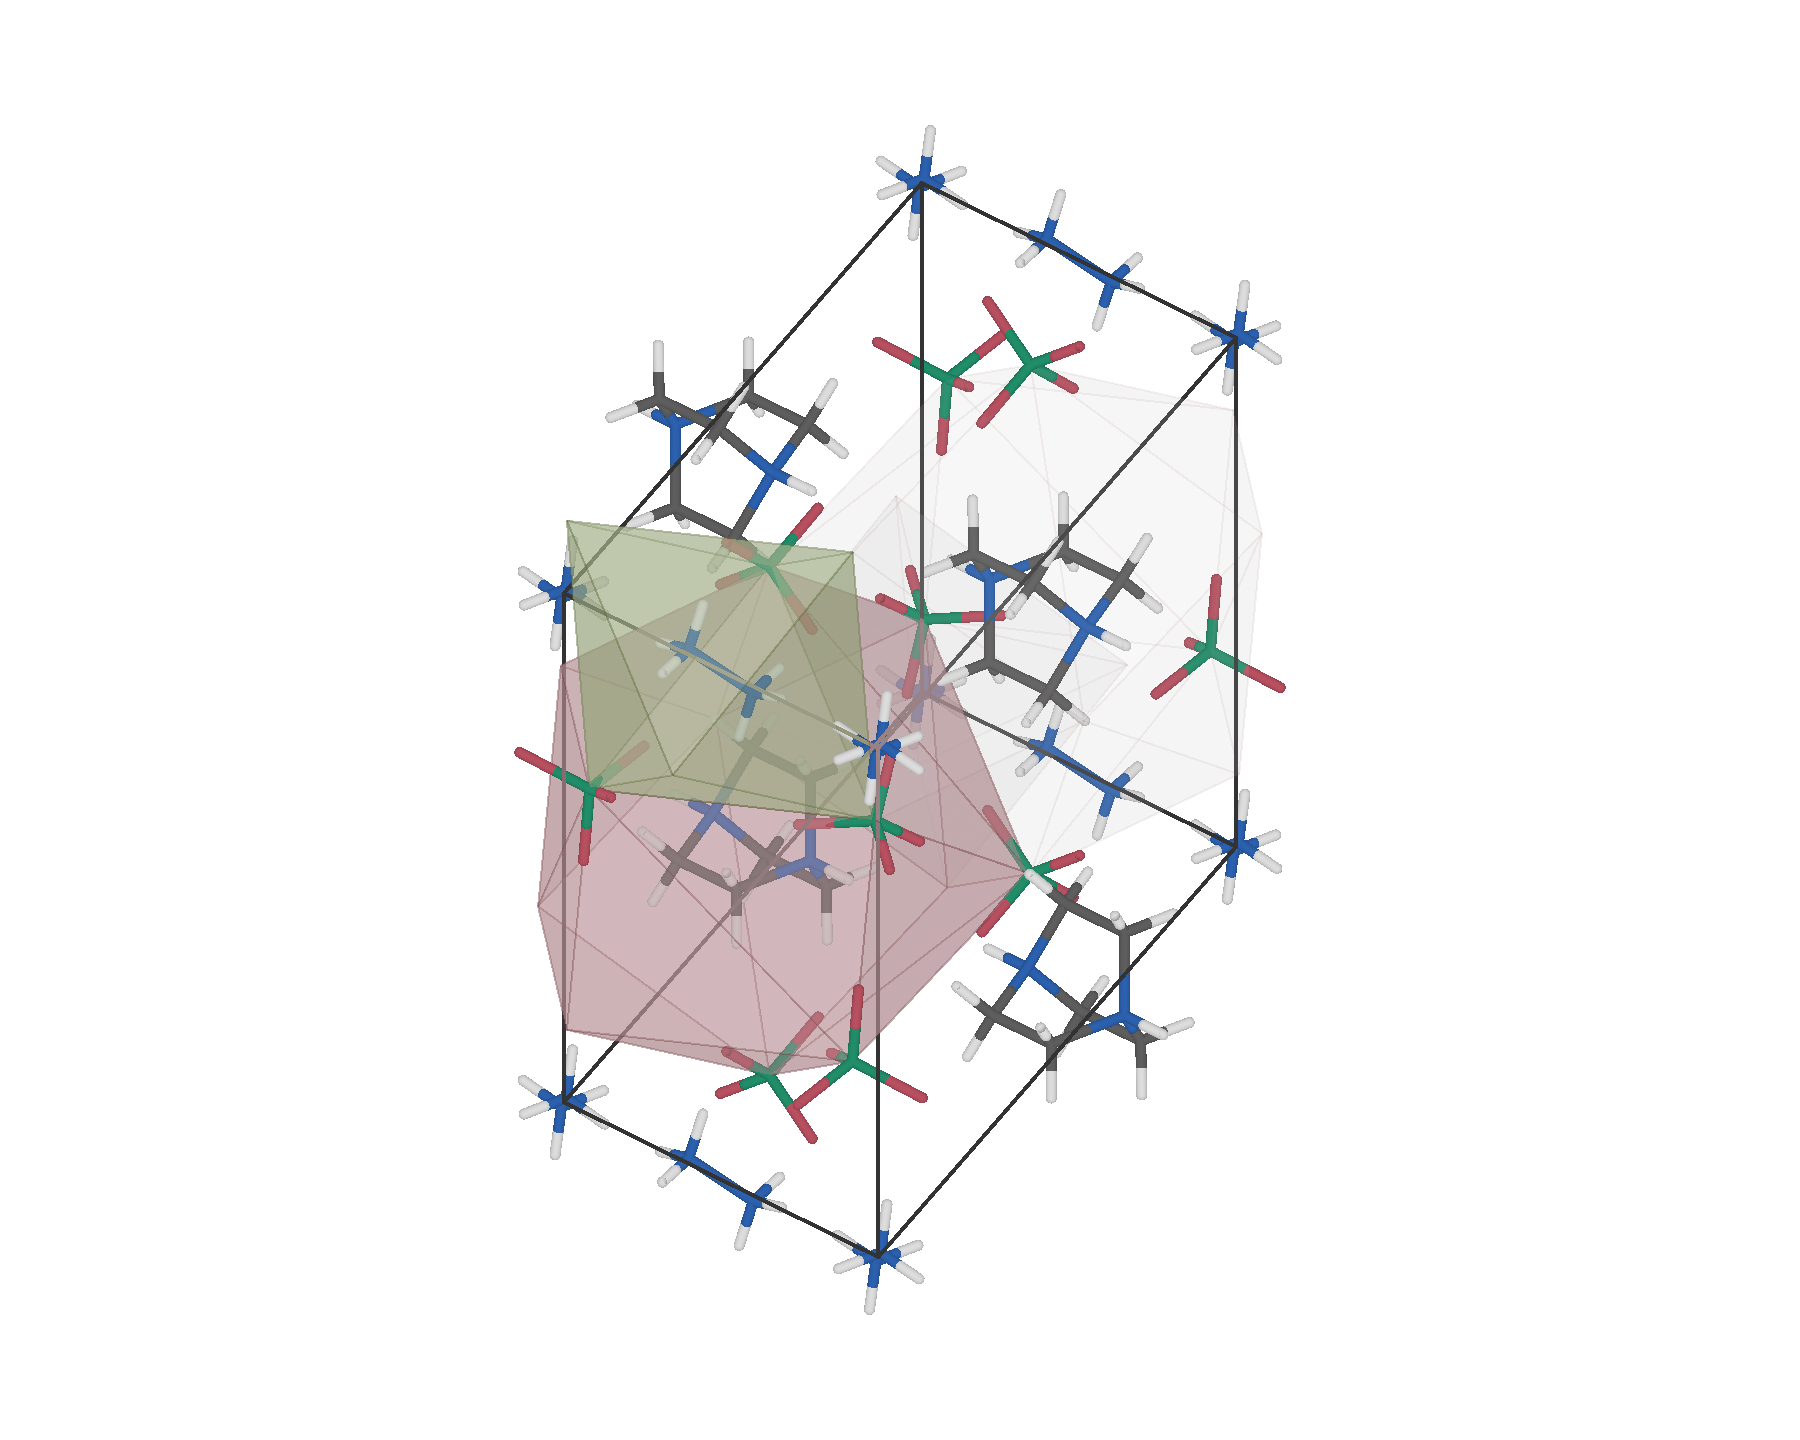
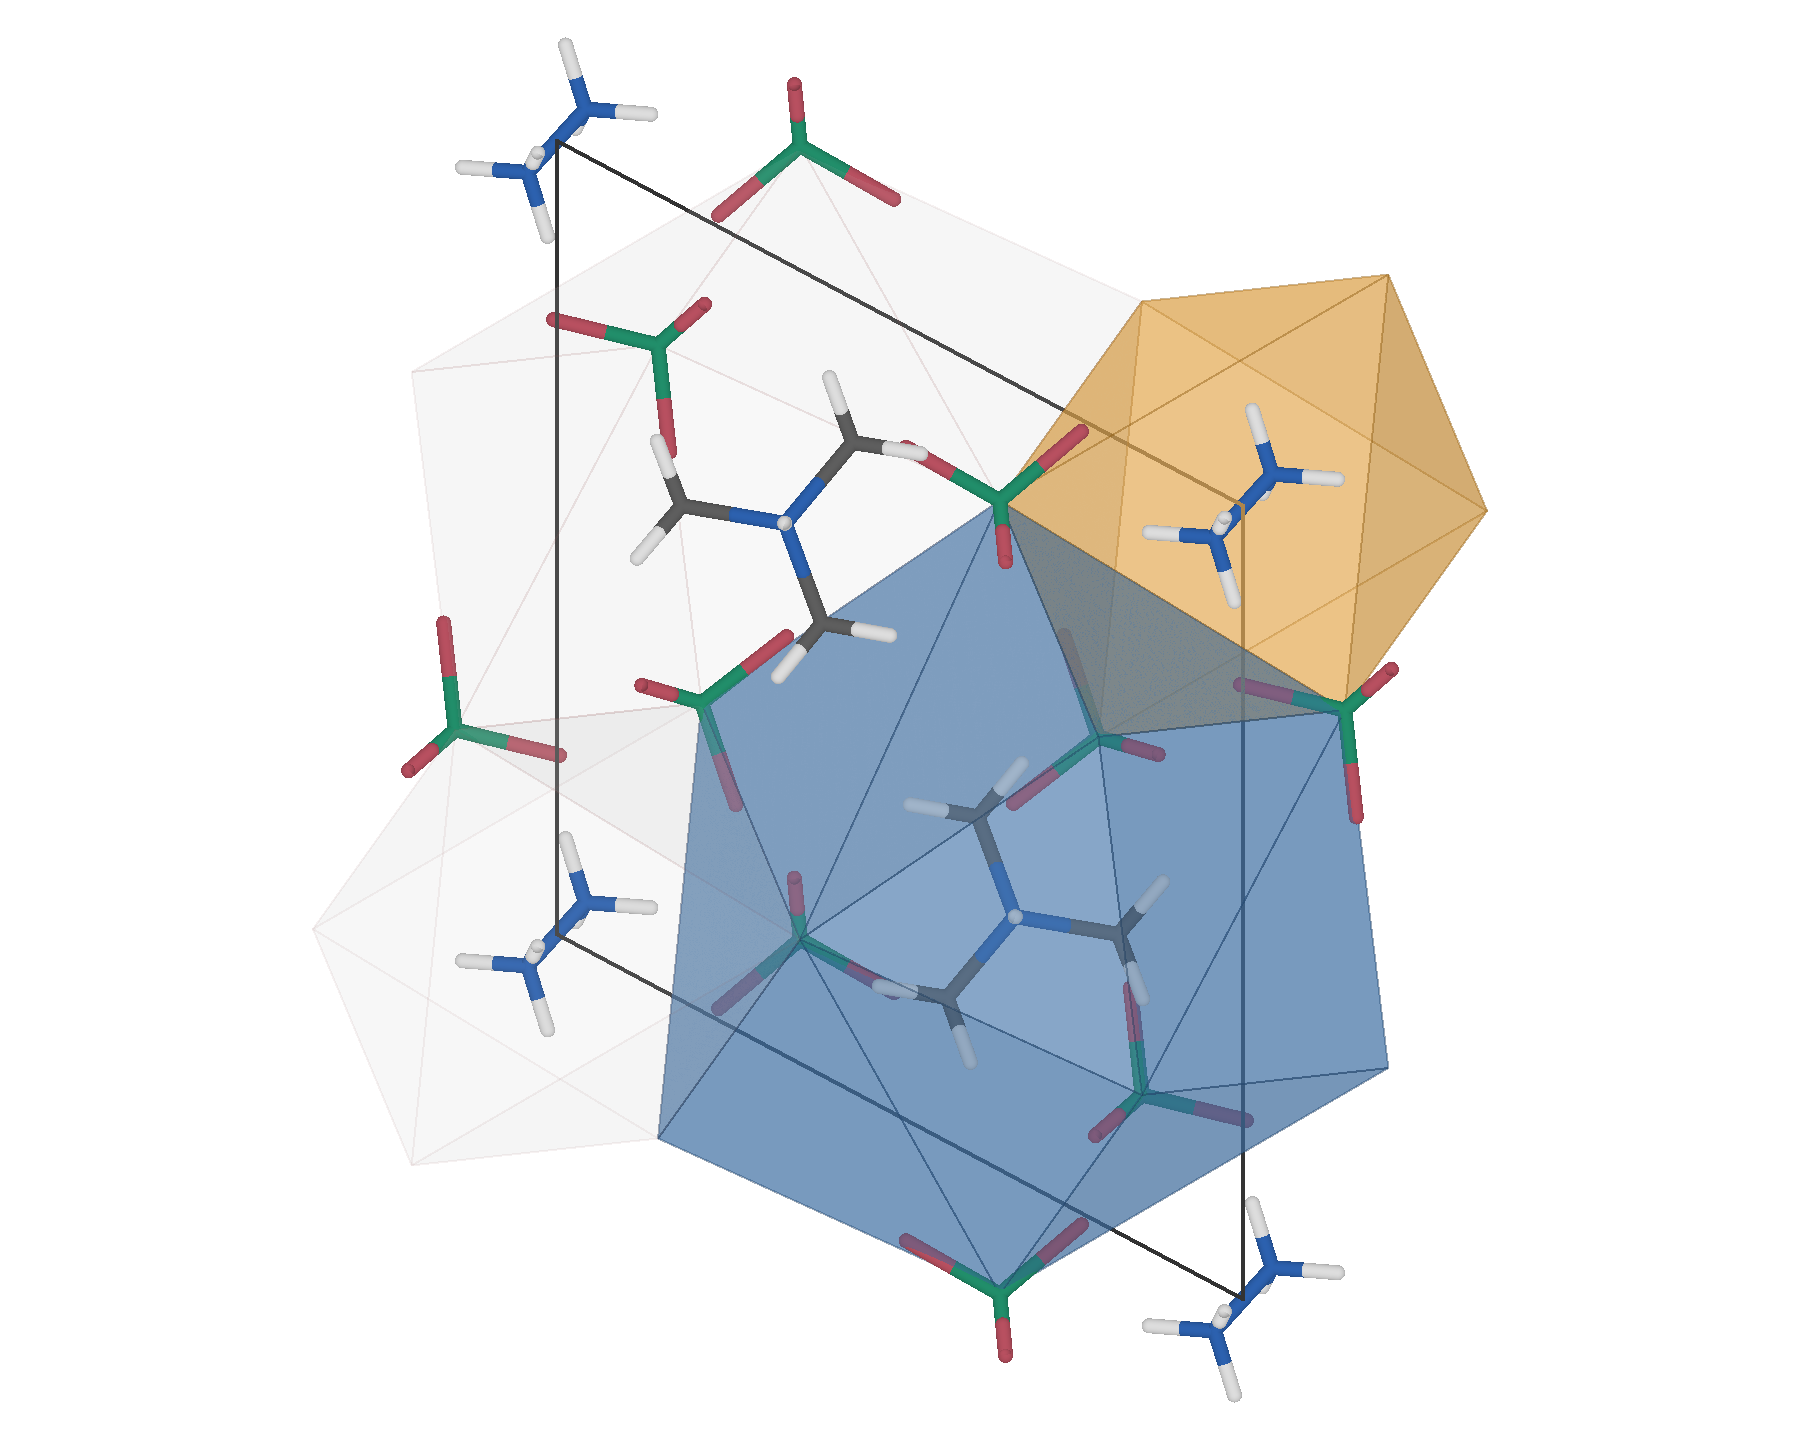
Face the polyhedron panel down the b axis and give the three panels equal width.
PETN now draws a thicker mock stretch plus a perpendicular arrow on each terminal oxygen, so the displacements stay visible beside the bonds.

Changed region(s): [[0.2178, 0.0625, 0.84, 0.9688], [0.2489, 0.0312, 0.3733, 0.1875]]

diff --git a/docs/images/render_panels.py b/docs/images/render_panels.py
@@ -13,7 +13,9 @@ import numpy as np
 from PIL import Image
 from scipy.spatial import ConvexHull
 
+from mat_viewer.agent import load_structure
 from mat_viewer.loader import build_bundle_scene, build_loaded_crystal
+from mat_viewer.render.contracts import CameraSpec
 from mat_viewer.render.cpu import render_rgba
 from mat_viewer.render.planning import prepare_render
 from mat_viewer.topology import extract_coordination_shell
@@ -21,10 +23,12 @@ from mat_viewer.topology import extract_coordination_shell
 ROOT = Path(__file__).resolve().parent
 DAP7 = ROOT / "showcase_dap7.cif"
 CAFFEINE = ROOT / "showcase_caffeine_pair.cif"
+PETN = ROOT / "showcase_petn_molecule.xyz"
+PETN_VECTORS = ROOT / "showcase_petn_vectors.json"
 
-A_HIGHLIGHT = "#B89095"
-B_HIGHLIGHT = "#A0AE83"
-HULL_BG = "#C7C7C7"
+A_HIGHLIGHT = "#3B6EA5"
+B_HIGHLIGHT = "#E09F3E"
+HULL_BG = "#C8C8C8"
 HL_OPACITY = 0.45
 BG_OPACITY = 0.08
 ATOM_SCALE = 0.55
@@ -35,6 +39,84 @@ HEIGHT = 720
 
 def _save(image: np.ndarray, path: Path) -> None:
     Image.fromarray(image).save(path)
+
+
+def _axis_frame(matrix: np.ndarray) -> np.ndarray:
+    """Map the cell so a lies on screen x, c on screen z, and b along the view."""
+    lattice = np.asarray(matrix, dtype=float)
+    a_vec, b_vec, c_vec = lattice
+    z_axis = c_vec / max(float(np.linalg.norm(c_vec)), 1e-8)
+    x_axis = a_vec - float(np.dot(a_vec, z_axis)) * z_axis
+    if float(np.linalg.norm(x_axis)) < 1e-8:
+        x_axis = b_vec - float(np.dot(b_vec, z_axis)) * z_axis
+    x_axis = x_axis / max(float(np.linalg.norm(x_axis)), 1e-8)
+    y_axis = np.cross(z_axis, x_axis)
+    if float(np.dot(y_axis, b_vec)) < 0.0:
+        y_axis = -y_axis
+    return np.stack([x_axis, y_axis, z_axis], axis=0)
+
+
+def _rotate_point(frame: np.ndarray, point) -> list[float]:
+    return (frame @ np.asarray(point, dtype=float)).tolist()
+
+
+def _rotate_scene(scene: dict, frame: np.ndarray) -> None:
+    for key in ("draw_atoms", "atoms"):
+        for atom in scene.get(key) or []:
+            if "cart" in atom:
+                atom["cart"] = _rotate_point(frame, atom["cart"])
+    for bond in scene.get("bonds") or []:
+        if "start" in bond:
+            bond["start"] = _rotate_point(frame, bond["start"])
+        if "end" in bond:
+            bond["end"] = _rotate_point(frame, bond["end"])
+    for polyhedron in scene.get("polyhedra") or []:
+        polyhedron["vertices"] = [
+            _rotate_point(frame, vertex) for vertex in polyhedron.get("vertices") or []
+        ]
+    lattice = np.asarray(scene.get("M") if scene.get("M") is not None else scene.get("matrix"), dtype=float)
+    rotated = lattice @ frame.T
+    scene["M"] = rotated
+    scene["matrix"] = rotated
+
+
+def _axis_camera(scene: dict, *, width: int, height: int) -> CameraSpec:
+    points = []
+    for atom in scene.get("draw_atoms") or scene.get("atoms") or []:
+        if "cart" in atom:
+            points.append(np.asarray(atom["cart"], dtype=float))
+    for bond in scene.get("bonds") or []:
+        if "start" in bond and "end" in bond:
+            points.append(np.asarray(bond["start"], dtype=float))
+            points.append(np.asarray(bond["end"], dtype=float))
+    for polyhedron in scene.get("polyhedra") or []:
+        vertices = np.asarray(polyhedron.get("vertices") or [], dtype=float)
+        if len(vertices):
+            points.extend(vertices)
+    lattice = np.asarray(scene["M"], dtype=float)
+    for i in (0, 1):
+        for j in (0, 1):
+            for k in (0, 1):
+                points.append(i * lattice[0] + j * lattice[1] + k * lattice[2])
+    cloud = np.vstack(points)
+    minimum = cloud.min(axis=0)
+    maximum = cloud.max(axis=0)
+    target = 0.5 * (minimum + maximum)
+    radius = max(float(np.linalg.norm(cloud - target, axis=1).max()), 0.5)
+    distance = max(radius * 3.2, 2.0)
+    aspect = width / height
+    half_x = 0.5 * float(maximum[0] - minimum[0]) + 0.6
+    half_z = 0.5 * float(maximum[2] - minimum[2]) + 0.6
+    return CameraSpec.looking_along(
+        (0.0, -1.0, 0.0),
+        target=target,
+        up=(0.0, 0.0, 1.0),
+        distance=distance,
+        projection="orthographic",
+        ortho_scale=max(half_z, half_x / aspect),
+        near=max(1.0e-3, distance - radius * 2.2),
+        far=distance + radius * 2.2,
+    )
 
 
 def _polyhedra(bundle) -> list[dict]:
@@ -119,9 +201,11 @@ def _render_polyhedron() -> None:
     for bond in scene.get("bonds") or []:
         if bond.get("is_disordered"):
             bond["_render_opacity_scale"] = float(bond.get("occ", 1.0))
+    _rotate_scene(scene, _axis_frame(np.asarray(bundle.M, dtype=float)))
     plan = prepare_render(
         scene,
         view={"display": "unit_cell", "include_boundary_replicas": True},
+        camera=_axis_camera(scene, width=WIDTH, height=HEIGHT),
         render={
             "backend": "cpu",
             "representation": "ball_stick",
@@ -138,6 +222,95 @@ def _render_polyhedron() -> None:
     )
     _save(render_rgba(plan, scale=2), ROOT / "panel_polyhedron.png")
     print("polyhedra", [(item["color"], item["opacity"], len(item["vertices"])) for item in scene["polyhedra"]])
+
+
+def _unit(vector: np.ndarray) -> np.ndarray:
+    norm = float(np.linalg.norm(vector))
+    if norm < 1e-8:
+        return vector
+    return vector / norm
+
+
+def _write_mode_arrows() -> list[dict]:
+    """Nitrate stretch plus a sideways arrow on each terminal oxygen.
+
+    The stretch lies on the N–O bond and disappears into the stick. The
+    second arrow is perpendicular to that bond, so the displacement stays
+    visible beside the molecule.
+    """
+    lines = PETN.read_text(encoding="utf-8").splitlines()
+    count = int(lines[0].split()[0])
+    atoms = []
+    for line in lines[2 : 2 + count]:
+        element, x, y, z = line.split()[:4]
+        atoms.append((element, np.array([float(x), float(y), float(z)])))
+    arrows = []
+    for index, (element, origin) in enumerate(atoms):
+        if element != "O":
+            continue
+        nitrogen = None
+        carbon = None
+        for other, position in atoms:
+            distance = float(np.linalg.norm(position - origin))
+            if other == "N" and distance < 1.7:
+                nitrogen = position
+            if other == "C" and distance < 1.7:
+                carbon = position
+        if nitrogen is None or carbon is not None:
+            continue
+        along = _unit(origin - nitrogen)
+        reference = np.array([0.0, 0.0, 1.0]) if abs(float(along[2])) < 0.85 else np.array([1.0, 0.0, 0.0])
+        sideways = _unit(np.cross(along, reference))
+        arrows.append({"id": f"stretch-{index}", "origin": origin.round(4).tolist(), "vector": (along * 1.35).round(4).tolist()})
+        arrows.append({"id": f"wag-{index}", "origin": origin.round(4).tolist(), "vector": (sideways * 1.25).round(4).tolist()})
+    payload = [
+        {
+            "id": "mode",
+            "magnitude_mode": "absolute",
+            "anchor": "center",
+            "viewport_policy": "include",
+            "color": "#D55E00",
+            "note": "Mock nitrate motion. Stretch arrows follow N-O; wag arrows are perpendicular to the bond. Not a phonon.",
+            "style": {
+                "shaft_radius": 0.075,
+                "head_radius_ratio": 2.4,
+                "head_length_ratio": 0.34,
+                "sides": 16,
+            },
+            "arrows": arrows,
+        }
+    ]
+    PETN_VECTORS.write_text(json_dumps(payload), encoding="utf-8")
+    return payload
+
+
+def json_dumps(payload) -> str:
+    import json
+
+    return json.dumps(payload, indent=2) + "\n"
+
+
+def _render_mode() -> None:
+    overlays = _write_mode_arrows()
+    structure = load_structure(PETN)
+    plan = prepare_render(
+        structure,
+        vector_overlays=overlays,
+        render={
+            "backend": "cpu",
+            "representation": "ball_stick",
+            "width": WIDTH,
+            "height": HEIGHT,
+            "scale": 2,
+            "show_hydrogen": True,
+            "show_cell": False,
+            "atom_scale": 0.72,
+            "bond_radius": 0.10,
+            "background": (1.0, 1.0, 1.0, 1.0),
+        },
+    )
+    _save(render_rgba(plan, scale=2), ROOT / "panel_mode.png")
+    print("mode arrows", len(overlays[0]["arrows"]))
 
 
 def _render_disorder() -> None:
@@ -174,3 +347,4 @@ def _render_disorder() -> None:
 if __name__ == "__main__":
     _render_polyhedron()
     _render_disorder()
+    _render_mode()

diff --git a/docs/images/compose_readme.py b/docs/images/compose_readme.py
@@ -1,9 +1,9 @@
 """Stitch the three README panels into ``feature_combined.png``.
 
-Independent fit: the panels are not on one physical scale. The disorder and
-polyhedron panels come from ``render_panels.py``: occupancy fades atoms and
-bonds together, and DAP-7 draws molecule-level ClO4 hulls with one A site
-and one B site at opacity 0.45 and the remaining hulls at 0.08.
+The three panels occupy equal thirds. ``render_panels.py`` draws them:
+disorder fades atoms and bonds by occupancy, DAP-7 is viewed straight down
+the b axis with one A hull and one B hull kept visible, and PETN carries a
+mock nitrate stretch plus a perpendicular arrow on each terminal oxygen.
 
     PYTHONPATH=. python docs/images/render_panels.py
 
@@ -106,33 +106,30 @@ def _crop_largest(image: Image.Image, pad: int = 32) -> Image.Image:
 
 
 def main() -> None:
-    target_h = 640
-    fitted: list[tuple[Image.Image, str]] = []
-    for filename, label, mode in PANELS:
-        image = Image.open(ROOT / filename)
-        cropped = _crop_largest(image) if mode == "largest" else _crop_all(image)
-        width = max(1, int(round(cropped.width * target_h / cropped.height)))
-        fitted.append(
-            (cropped.resize((width, target_h), Image.Resampling.LANCZOS), label)
-        )
-    gap = 40
+    slot = 720
     label_h = 56
-    total_w = sum(image.width for image, _ in fitted) + gap * (len(fitted) - 1)
-    canvas = Image.new("RGB", (total_w, target_h + label_h), "white")
+    canvas = Image.new("RGB", (slot * len(PANELS), slot + label_h), "white")
     draw = ImageDraw.Draw(canvas)
     font = ImageFont.truetype("arial.ttf", 32)
-    x = 0
-    for image, label in fitted:
-        canvas.paste(image, (x, 0))
+    for index, (filename, label, mode) in enumerate(PANELS):
+        image = Image.open(ROOT / filename)
+        cropped = _crop_largest(image) if mode == "largest" else _crop_all(image)
+        scale = min(slot / cropped.width, slot / cropped.height)
+        fitted = cropped.resize(
+            (max(1, int(round(cropped.width * scale))), max(1, int(round(cropped.height * scale)))),
+            Image.Resampling.LANCZOS,
+        )
+        origin_x = index * slot + (slot - fitted.width) // 2
+        origin_y = (slot - fitted.height) // 2
+        canvas.paste(fitted, (origin_x, origin_y))
         text_box = draw.textbbox((0, 0), label, font=font)
         text_w = text_box[2] - text_box[0]
         draw.text(
-            (x + (image.width - text_w) / 2, target_h + 10),
+            (index * slot + (slot - text_w) / 2, slot + 10),
             label,
             fill="#333333",
             font=font,
         )
-        x += image.width + gap
     canvas.save(ROOT / "feature_combined.png", "PNG")
 
 
